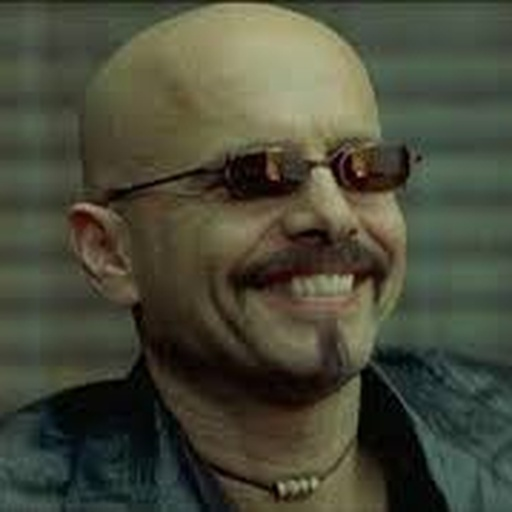
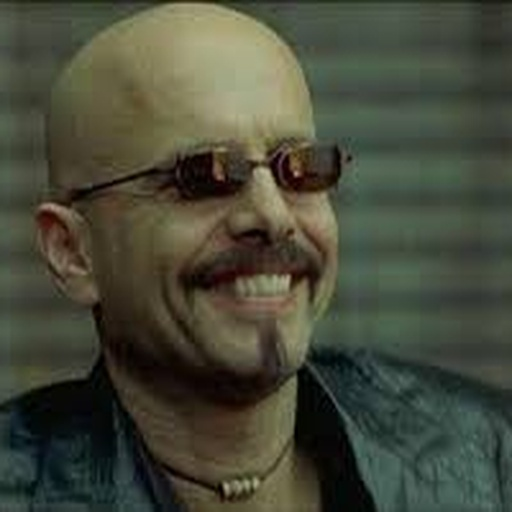
Auto-deploy: Preparando para producción en VPS

diff --git a/src/components/VibeLottie.tsx b/src/components/VibeLottie.tsx
@@ -8,7 +8,7 @@ export default function VibeLottie({ url }: { url: string }) {
   const [error, setError] = useState(false);
 
   useEffect(() => {
-    if (url.includes("whatsapp")) return; // Usamos la animación vectorial optimizada
+    if (url.includes("whatsapp") || url.includes("toll") || url.includes("trainman")) return; // Usamos las animaciones vectoriales optimizadas
     fetch(url)
       .then((res) => {
         if (!res.ok) throw new Error("Network error");
@@ -136,6 +136,127 @@ export default function VibeLottie({ url }: { url: string }) {
         }}>
           <span style={{ fontSize: "0.52rem", color: "#25D366", fontFamily: "var(--font-display)", letterSpacing: "1px", fontWeight: 700 }}>
             BOT ATENDIENDO ⚡
+          </span>
+        </div>
+      </div>
+    );
+  }
+
+  if (url.includes("toll") || url.includes("trainman")) {
+    return (
+      <div style={{
+        width: "100%",
+        display: "flex",
+        flexDirection: "column",
+        alignItems: "center",
+        justifyContent: "center",
+        position: "relative",
+        padding: "0",
+      }}>
+        {/* Animated Toll Barrier (Tranquera de Peaje Matrix) */}
+        <div style={{
+          position: "relative",
+          width: "135px",
+          height: "76px",
+          display: "flex",
+          alignItems: "center",
+          justifyContent: "center",
+        }}>
+          {/* Pulsing Strobe Aura */}
+          <div style={{
+            position: "absolute",
+            width: "58px",
+            height: "58px",
+            borderRadius: "50%",
+            background: "radial-gradient(circle, rgba(168, 85, 247, 0.4) 0%, transparent 70%)",
+            animation: "pulse-aura 2s infinite ease-in-out",
+          }} />
+
+          {/* SVG Toll Barrier & Control Post */}
+          <svg width="110" height="60" viewBox="0 0 110 60" fill="none" style={{ filter: "drop-shadow(0 0 12px rgba(168,85,247,0.6))", zIndex: 1, overflow: "visible" }}>
+            {/* Toll Booth / Base Post */}
+            <rect x="12" y="18" width="16" height="38" rx="3" fill="#120524" stroke="#a855f7" strokeWidth="2" />
+            <circle cx="20" cy="28" r="4" fill="#ff003c" style={{ animation: "toll-strobe 1s infinite alternate" }} />
+            <circle cx="20" cy="42" r="3" fill="#331045" stroke="#a855f7" strokeWidth="1" />
+
+            {/* Red Strobe Siren on top */}
+            <path d="M16 18 L24 18 L22 10 L18 10 Z" fill="#ff003c" style={{ animation: "toll-strobe 0.8s infinite alternate" }} />
+            <circle cx="20" cy="8" r="4" fill="#ff003c" style={{ filter: "drop-shadow(0 0 10px #ff003c)", animation: "toll-strobe 0.8s infinite alternate" }} />
+
+            {/* Animated Barrier Arm (Tranquera con rayas diagonales) */}
+            <g style={{ transformOrigin: "20px 30px", animation: "barrier-swing 4s infinite cubic-bezier(0.77, 0, 0.175, 1)" }}>
+              {/* Barrier Bar with Diagonal Hazard Stripes */}
+              <defs>
+                <pattern id="tollStripes" width="12" height="12" patternTransform="rotate(45 0 0)" patternUnits="userSpaceOnUse">
+                  <line x1="0" y1="0" x2="0" y2="12" stroke="#ff003c" strokeWidth="6" />
+                  <line x1="6" y1="0" x2="6" y2="12" stroke="#ffffff" strokeWidth="6" />
+                </pattern>
+              </defs>
+              <rect x="20" y="27" width="84" height="7" rx="2" fill="url(#tollStripes)" stroke="#a855f7" strokeWidth="1" style={{ filter: "drop-shadow(0 0 8px rgba(255,0,60,0.5))" }} />
+              <circle cx="20" cy="30.5" r="5" fill="#3b0764" stroke="#a855f7" strokeWidth="2" />
+
+              {/* Stop Octagon hanging from the middle of the barrier */}
+              <polygon points="62,20 70,20 75,25 75,33 70,38 62,38 57,33 57,25" fill="#ff003c" stroke="#ffffff" strokeWidth="1" />
+              <text x="66" y="31" fill="#ffffff" fontSize="6.5" fontWeight="900" fontFamily="var(--font-display)" textAnchor="middle">STOP</text>
+            </g>
+          </svg>
+
+          {/* Floating Urgent Badge 1 */}
+          <div style={{
+            position: "absolute",
+            top: "-10px",
+            right: "-12px",
+            background: "rgba(168, 85, 247, 0.95)",
+            color: "#fff",
+            fontFamily: "var(--font-display)",
+            fontSize: "0.52rem",
+            fontWeight: 800,
+            padding: "2px 7px",
+            borderRadius: "8px",
+            border: "1px solid #c084fc",
+            boxShadow: "0 0 14px rgba(168,85,247,0.7)",
+            animation: "bubble-float 2.8s infinite ease-in-out",
+            whiteSpace: "nowrap",
+            zIndex: 2,
+          }}>
+            SOLO SI ÉL QUIERE ⛔
+          </div>
+
+          {/* Floating Message Bubble 2 */}
+          <div style={{
+            position: "absolute",
+            bottom: "-6px",
+            left: "-12px",
+            background: "rgba(20, 5, 35, 0.92)",
+            color: "#e879f9",
+            fontFamily: "var(--font-display)",
+            fontSize: "0.50rem",
+            fontWeight: 700,
+            padding: "2px 7px",
+            borderRadius: "8px",
+            border: "1px solid rgba(168, 85, 247, 0.6)",
+            boxShadow: "0 0 10px rgba(168,85,247,0.4)",
+            animation: "bubble-float-rev 3.2s infinite ease-in-out",
+            whiteSpace: "nowrap",
+            zIndex: 2,
+          }}>
+            ¿Mis PDFs escaneados?
+          </div>
+        </div>
+
+        {/* Status Bar */}
+        <div style={{
+          display: "flex",
+          alignItems: "center",
+          gap: "5px",
+          marginTop: "14px",
+          background: "rgba(168, 85, 247, 0.14)",
+          border: "1px solid rgba(168, 85, 247, 0.4)",
+          borderRadius: "10px",
+          padding: "2px 8px",
+        }}>
+          <span style={{ fontSize: "0.52rem", color: "#d8b4fe", fontFamily: "var(--font-display)", letterSpacing: "1px", fontWeight: 700 }}>
+            DATA EN SU PC 🔒
           </span>
         </div>
       </div>

diff --git a/src/app/globals.css b/src/app/globals.css
@@ -659,6 +659,17 @@ body {
   50% { transform: scale(1.15); filter: drop-shadow(0 0 12px #ff003c); }
 }
 
+@keyframes barrier-swing {
+  0%, 100% { transform: rotate(0deg); }
+  40% { transform: rotate(-30deg); }
+  70% { transform: rotate(0deg); }
+}
+
+@keyframes toll-strobe {
+  0%, 100% { opacity: 1; filter: drop-shadow(0 0 14px #ff003c); }
+  50% { opacity: 0.2; filter: drop-shadow(0 0 2px #ff003c); }
+}
+
 .radar-viewport-box {
   width: 750px;
   height: 750px;

diff --git a/src/app/globals_V2_STABLE.css b/src/app/globals_V2_STABLE.css
@@ -659,6 +659,17 @@ body {
   50% { transform: scale(1.15); filter: drop-shadow(0 0 12px #ff003c); }
 }
 
+@keyframes barrier-swing {
+  0%, 100% { transform: rotate(0deg); }
+  40% { transform: rotate(-30deg); }
+  70% { transform: rotate(0deg); }
+}
+
+@keyframes toll-strobe {
+  0%, 100% { opacity: 1; filter: drop-shadow(0 0 14px #ff003c); }
+  50% { opacity: 0.2; filter: drop-shadow(0 0 2px #ff003c); }
+}
+
 .radar-viewport-box {
   width: 750px;
   height: 750px;
